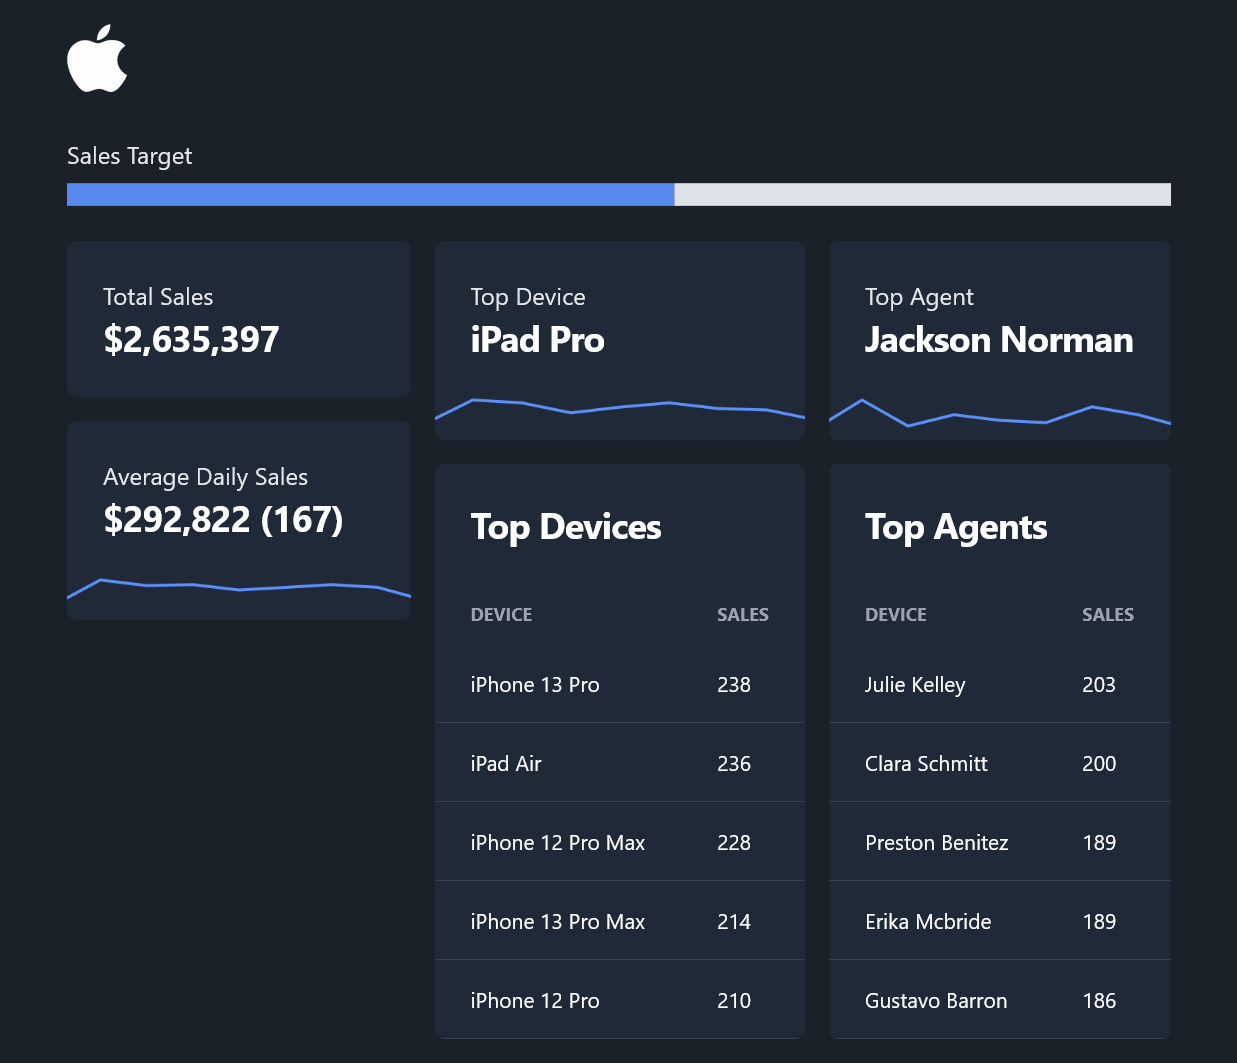
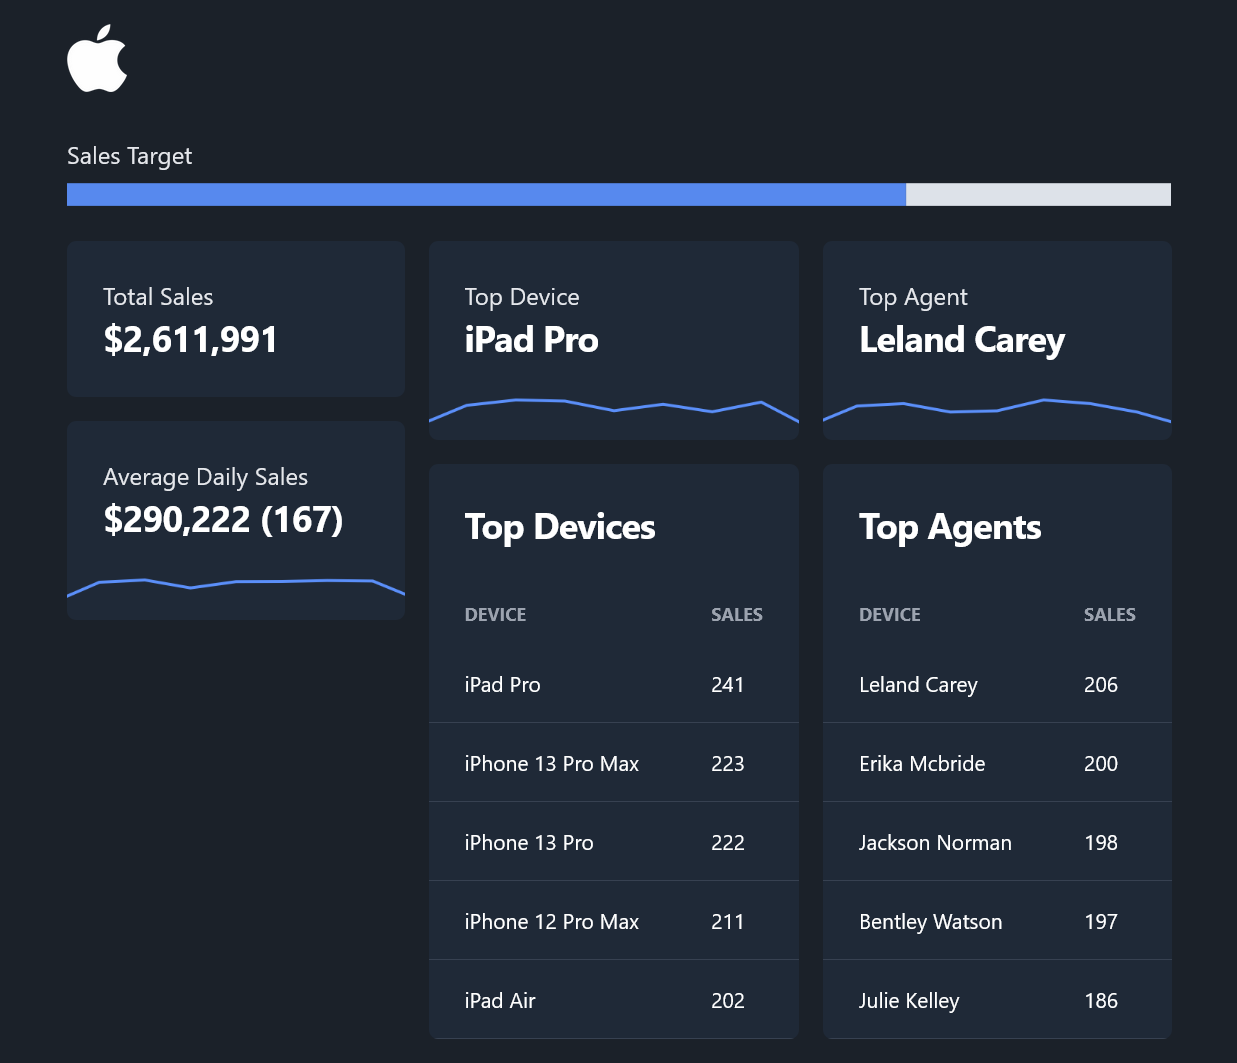
added random sales target

diff --git a/pages/index.js b/pages/index.js
@@ -12,6 +12,8 @@ export default function Index() {
   
   const sales = generate.sales(1500)
 
+  const sales_target = Math.floor(Math.random() * 100) / 100
+
   const sales_by_day = count.by('date', sales)
 
   const total_sales = sales.reduce((t, s) => t + s.price, 0)
@@ -28,7 +30,7 @@ export default function Index() {
   const group_by_devices = group.by(['device'], sales)
 
   const top_device = sales_by_devices
-    .sort((a, b) => a.count - b.count)[0].element
+    .sort((a, b) => b.count - a.count)[0].element
 
   const top_device_daily_sales = count.by(
       'date', 
@@ -40,7 +42,7 @@ export default function Index() {
   const group_by_agents = group.by(['agent'], sales)
 
   const top_agent = sales_by_agents
-    .sort((a, b) => a.count - b.count)[0].element
+    .sort((a, b) => b.count - a.count)[0].element
 
   const top_agent_daily_sales = count.by(
       'date', 
@@ -59,7 +61,7 @@ export default function Index() {
       <div className='mb-4'>
         <tiny.progress
           title='Sales Target'
-          percent={0.55}
+          percent={sales_target}
         />
       </div>
       <div className="flex flex-row space-x-4">
